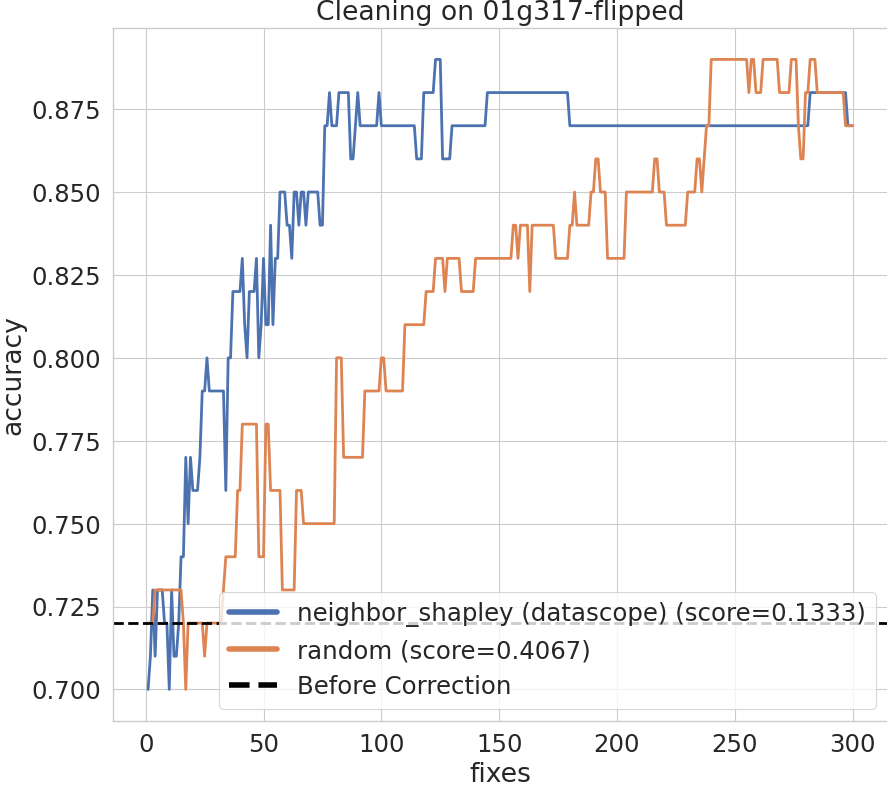
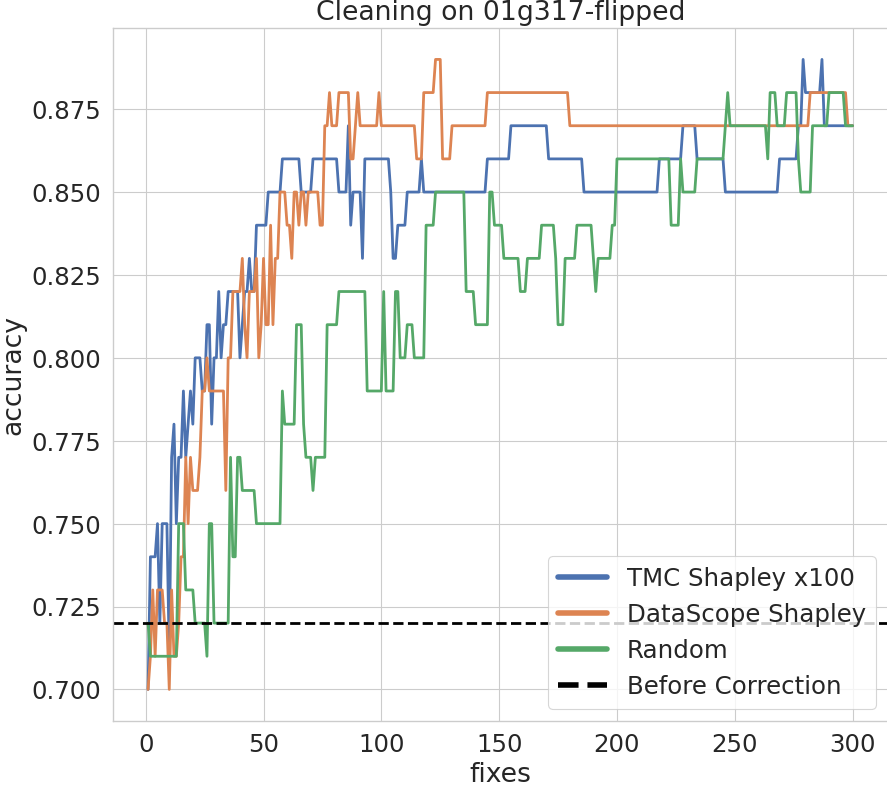
rename neighbor shapley to datascope shapley

diff --git a/plotter.py b/plotter.py
@@ -47,6 +47,17 @@ def plot(evaluation_file, result_folder):
     known_method = set(data['method'])
 
     handles, labels = ax.get_legend_handles_labels()
+    # find methods
+    methods = set(data['method'].tolist())
+    
+    for idx, label in enumerate(labels):
+        if label=='mc_shapley':
+            labels[idx] = 'TMC Shapley x100'
+        elif label == 'neighbor_shapley (datascope)':
+            labels[idx] = 'DataScope Shapley'
+        elif label == 'random':
+            labels[idx] = 'Random'
+    
     for idx, label in enumerate(labels):
         if label in known_method:
             score = results['auc_score'][label]

diff --git a/plotter_speed.py b/plotter_speed.py
@@ -60,9 +60,9 @@ def plot(data, result_folder, score_metric='auc'):
         h.set_sizes([200])
     for idx, label in enumerate(labels):
         if label=='mc_shapley':
-            labels[idx] = 'TMC Shapley x50'
-        elif label == 'neighbor_shapley':
-            labels[idx] = 'Neighbor Shapley'
+            labels[idx] = 'TMC Shapley x100'
+        elif label == 'neighbor_shapley (datascope)':
+            labels[idx] = 'DataScope Shapley'
         elif label == 'random':
             labels[idx] = 'Random'
     
